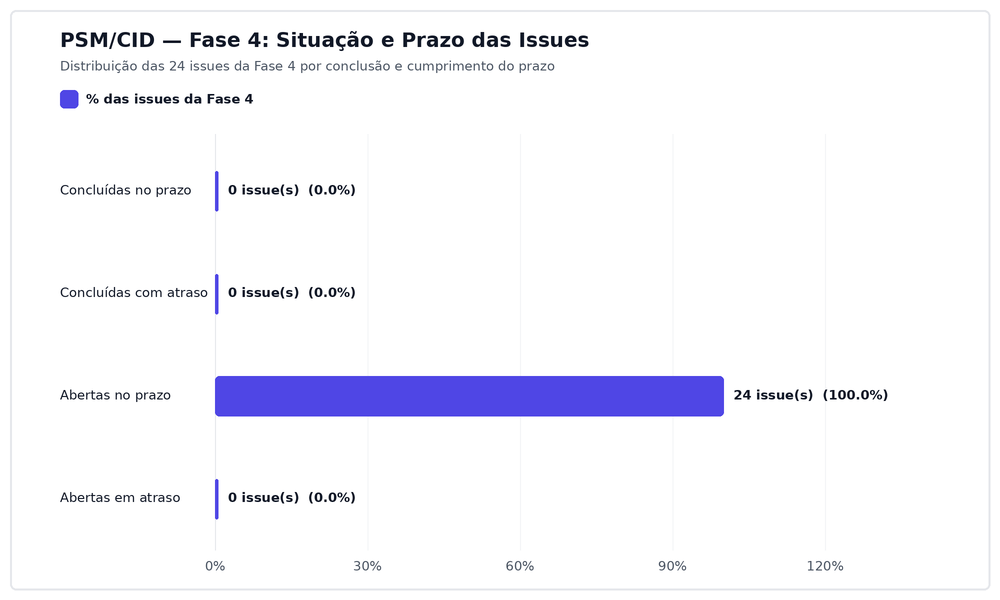
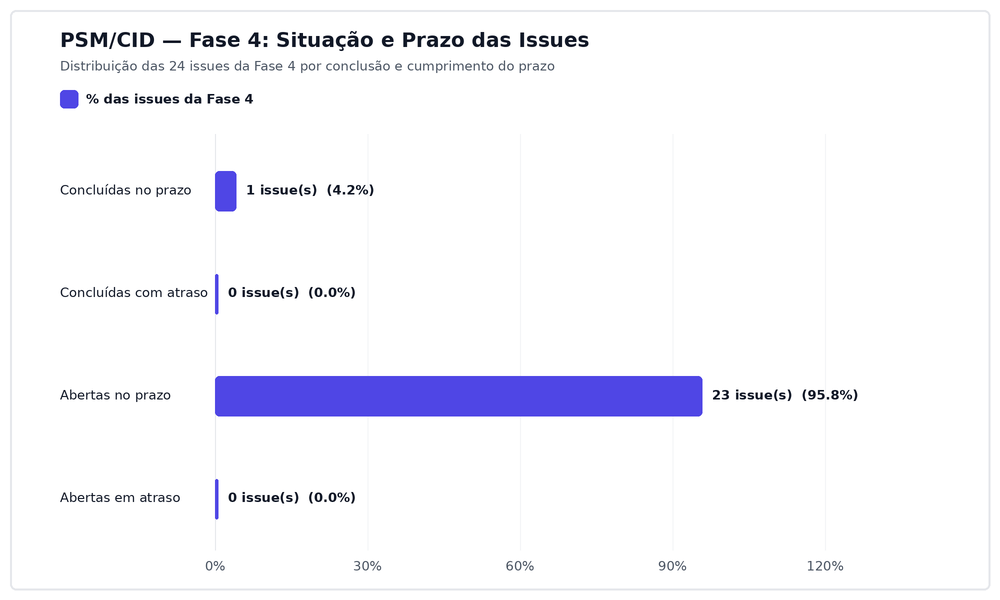
chore(gestao): atualiza métricas PSM/CID automaticamente [skip ci]

Changed region(s): [[0.682, 0.63, 0.899, 0.69], [0.217, 0.27, 0.372, 0.36]]

diff --git a/dados/gestao/constructs_e_tabelas.md b/dados/gestao/constructs_e_tabelas.md
@@ -49,7 +49,7 @@
 | Fase 1 | 17 / 17 | 100.0% | 29.4% | 53.5 | 57.9 | R$ 2407.50 | R$ 2605.95 | 108.2% | 1.23 |
 | Fase 2 | 27 / 25 | 92.6% | 44.4% | 62.0 | 56.4 | R$ 2790.00 | R$ 2538.00 | 91.0% | 2.76 |
 | Fase 3 | 21 / 1 | 4.8% | 100.0% | 46.0 | 2.0 | R$ 2070.00 | R$ 90.00 | 4.3% | 0.03 |
-| Fase 4 | 24 / 0 | 0.0% | 100.0% | 80.0 | 0.0 | R$ 3600.00 | R$ 0.00 | 0.0% | 0.00 |
+| Fase 4 | 24 / 1 | 4.2% | 100.0% | 80.0 | 0.0 | R$ 3600.00 | R$ 0.00 | 0.0% | 2.15 |
 | Sem Fase | 1 / 1 | 100.0% | 100.0% | 2.0 | 2.0 | R$ 90.00 | R$ 90.00 | 100.0% | 0.01 |
 
 ---
